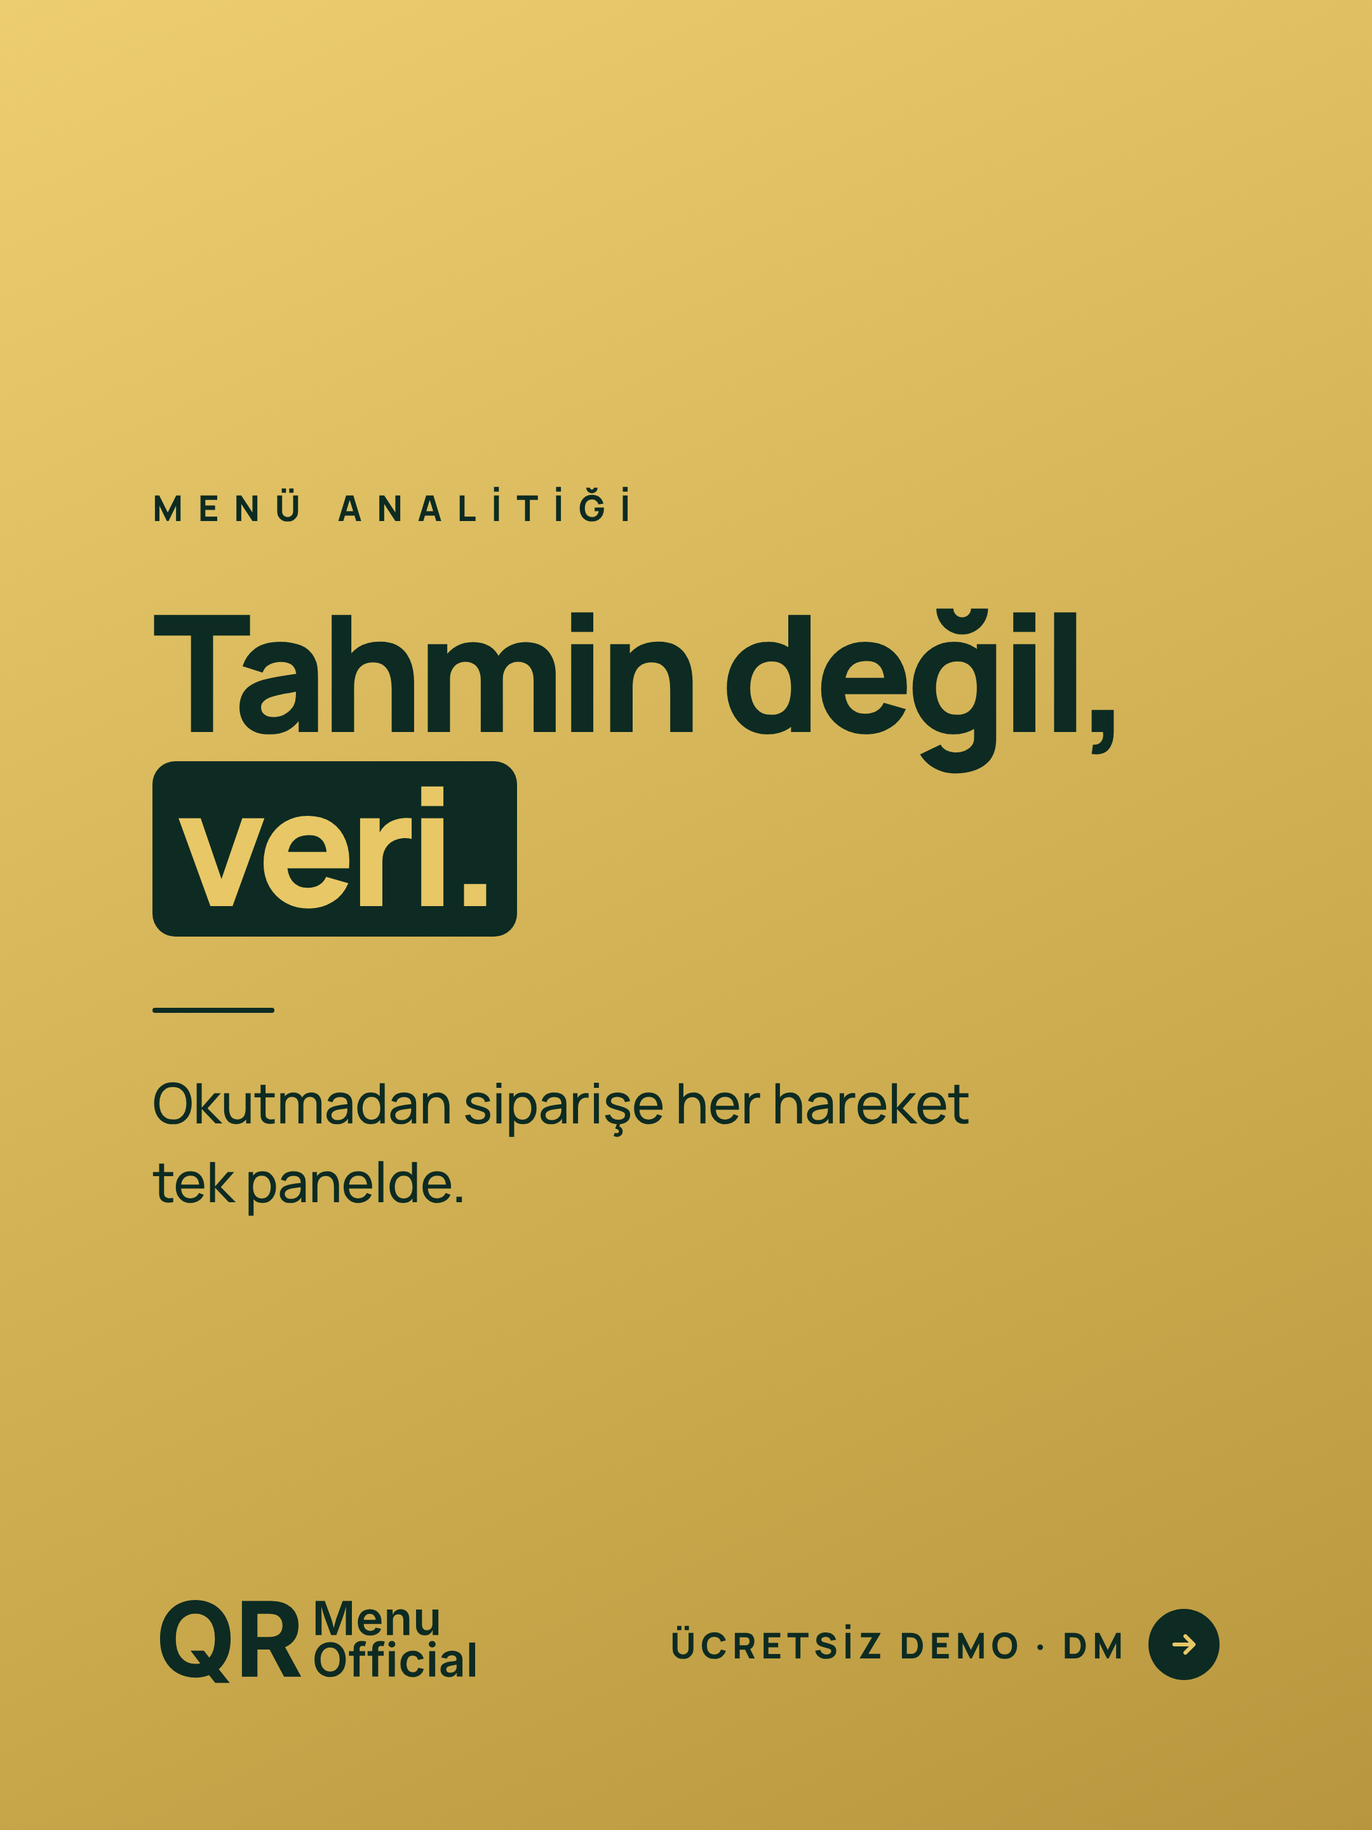
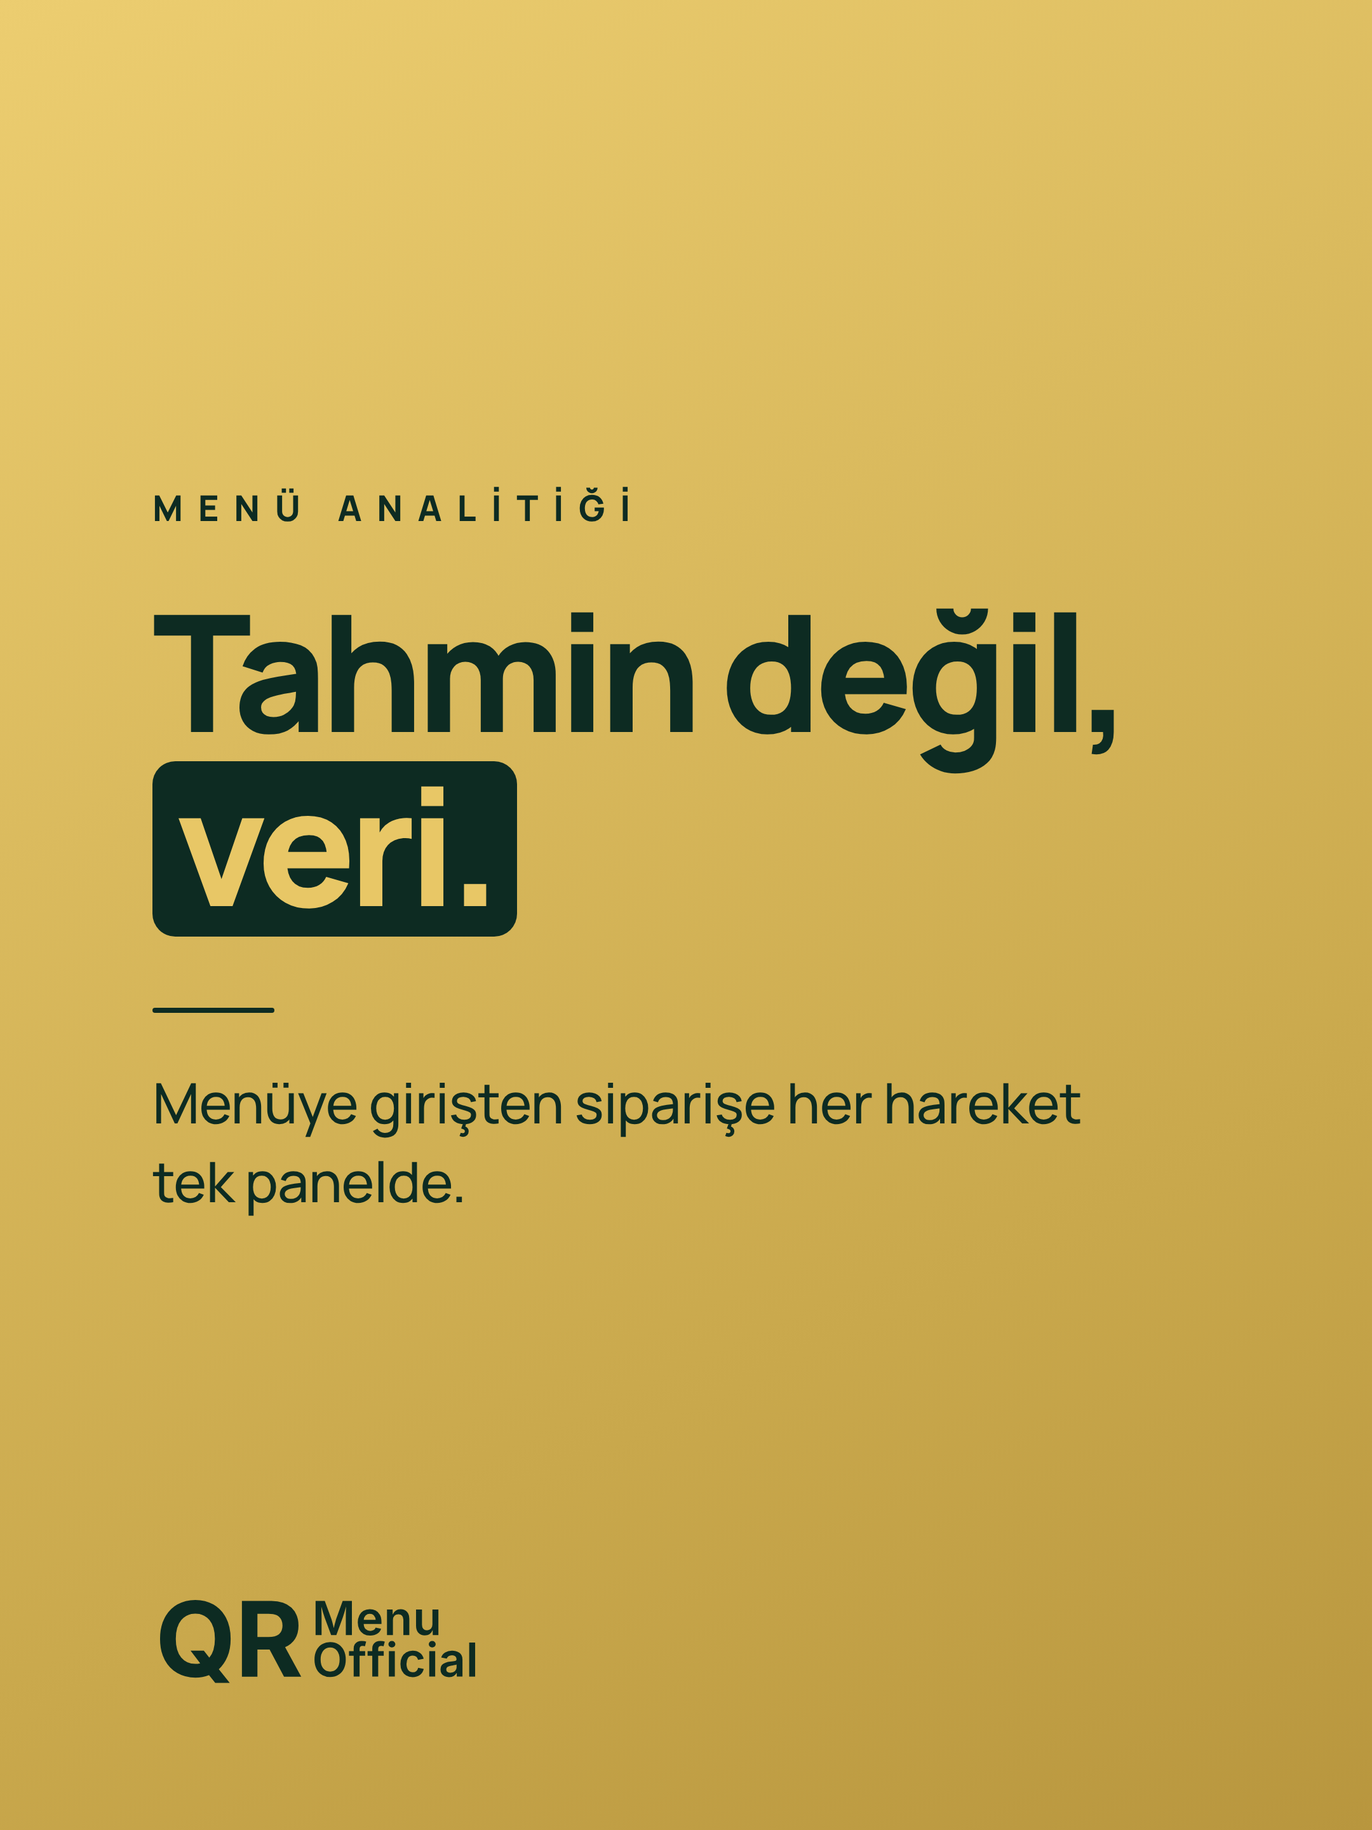
Menü Analitiği: 3. gönderi DM satırı kaldırıldı, metinler sadeleşti
Claude-Session: https://claude.ai/code/session_01FBw9rVwrniVjyFvtgVdFXq

diff --git a/tools/ig-sabit/ma-3.html b/tools/ig-sabit/ma-3.html
@@ -18,10 +18,10 @@
 /* altın */ .a{background:linear-gradient(155deg,#ECCD70 0%,#C9A84C 70%,#B8963E 100%);color:#0D2B22}
 .a .eb{color:#0D2B22}.a .rule{background:#0D2B22}.a .h b{background:#0D2B22;color:#E8C766}
 .k .cta i,.a .cta i{background:#0D2B22}.z .cta i{background:#C9A84C}
-</style></head><body><div class="s a"><div class="eb">MENÜ ANALİTİĞİ</div><div class="h">Tahmin değil,<br><b>veri.</b></div><div class="rule"></div><div class="p">Okutmadan siparişe her hareket<br>tek panelde.</div><div class="lg"><svg xmlns="http://www.w3.org/2000/svg" viewBox="0 0 4363.25 1296.64" fill="none" role="img" aria-labelledby="logo-title">
+</style></head><body><div class="s a"><div class="eb">MENÜ ANALİTİĞİ</div><div class="h">Tahmin değil,<br><b>veri.</b></div><div class="rule"></div><div class="p">Menüye girişten siparişe her hareket<br>tek panelde.</div><div class="lg"><svg xmlns="http://www.w3.org/2000/svg" viewBox="0 0 4363.25 1296.64" fill="none" role="img" aria-labelledby="logo-title">
 
 <g transform="translate(100.00 1113.42) scale(1 -1)">
 <path fill="#0D2B22" d="M466.4429530201342 -13.422818791946309Q334.2281879194631 -13.422818791946309 228.52348993288592 46.97986577181208Q122.81879194630875 107.38255033557047 61.409395973154375 222.14765100671144Q0.0 336.9127516778524 0.0 499.3288590604027Q0.0 662.4161073825504 61.409395973154375 777.5167785234901Q122.81879194630875 892.6174496644296 228.52348993288592 953.020134228188Q334.2281879194631 1013.4228187919464 466.4429530201342 1013.4228187919464Q599.3288590604028 1013.4228187919464 704.6979865771814 953.020134228188Q810.0671140939598 892.6174496644296 871.4765100671142 777.5167785234901Q932.8859060402685 662.4161073825504 932.8859060402685 499.3288590604027Q932.8859060402685 366.44295302013427 890.9395973154363 265.4362416107383Q848.9932885906042 164.4295302013423 776.510067114094 98.65771812080537L920.8053691275169 -83.22147651006712H729.530201342282L646.9798657718121 19.46308724832215Q563.758389261745 -13.422818791946309 466.4429530201342 -13.422818791946309ZM403.3557046979866 343.6241610738255H578.5234899328859L651.0067114093961 250.33557046979868Q686.5771812080537 291.94630872483225 705.7046979865772 354.69798657718127Q724.8322147651007 417.44966442953023 724.8322147651007 499.3288590604027Q724.8322147651007 661.0738255033557 654.026845637584 746.3087248322147Q583.2214765100672 831.5436241610738 466.4429530201342 831.5436241610738Q350.33557046979865 831.5436241610738 279.19463087248323 745.9731543624162Q208.05369127516778 660.4026845637584 208.05369127516778 499.3288590604027Q208.05369127516778 338.9261744966443 279.19463087248323 253.69127516778525Q350.33557046979865 168.4563758389262 466.4429530201342 168.4563758389262Q500.67114093959736 168.4563758389262 530.8724832214766 175.83892617449666Z"/><path fill="#0D2B22" d="M1081.8791946308727 0.0V1000.0H1471.8120805369128Q1642.281879194631 1000.0 1735.9060402684565 911.0738255033557Q1829.530201342282 822.1476510067115 1829.530201342282 674.4966442953021Q1829.530201342282 571.8120805369127 1783.8926174496646 498.99328859060404Q1738.2550335570472 426.17449664429535 1652.3489932885907 389.93288590604027L1865.1006711409398 0.0H1638.2550335570472L1447.6510067114095 357.04697986577185H1286.5771812080538V0.0ZM1286.5771812080538 522.8187919463087H1434.2281879194632Q1618.1208053691275 522.8187919463087 1618.1208053691275 674.4966442953021Q1618.1208053691275 750.3355704697987 1572.818791946309 790.6040268456376Q1527.51677852349 830.8724832214765 1433.5570469798658 830.8724832214765H1286.5771812080538Z"/><path fill="#0D2B22" d="M2055.10067114094 549.5V999.5H2176.5100671140945L2261.9798657718125 767.251677852349Q2266.5100671140945 753.9630872483222 2272.399328859061 732.6711409395973Q2278.2885906040274 711.3791946308725 2284.3288590604034 687.0671140939597Q2290.369127516779 662.755033557047 2295.503355704698 640.4060402684564Q2300.637583892618 662.4530201342282 2306.677852348994 686.765100671141Q2312.7181208053694 711.0771812080537 2318.607382550336 732.3691275167785Q2324.4966442953023 753.6610738255033 2328.7248322147652 767.251677852349L2413.2885906040274 999.5H2535.0000000000005V549.5H2454.6644295302017V776.6140939597316Q2454.6644295302017 793.5268456375838 2455.11744966443 818.4429530201342Q2455.570469798658 843.3590604026846 2456.325503355705 871.4463087248323Q2457.080536912752 899.5335570469799 2457.382550335571 926.4127516778524Q2449.832214765101 897.4194630872483 2441.3758389261748 868.7281879194632Q2432.919463087249 840.0369127516778 2425.369127516779 815.8758389261745Q2417.818791946309 791.7147651006711 2412.382550335571 776.6140939597316L2329.328859060403 549.5H2260.771812080537L2176.5100671140945 776.6140939597316Q2171.073825503356 791.1107382550335 2163.6744966442957 814.6677852348994Q2156.275167785235 838.2248322147651 2147.9697986577185 866.6140939597315Q2139.6644295302017 895.0033557046979 2131.2080536912754 923.9966442953021Q2131.812080536913 898.6275167785235 2132.5671140939603 870.993288590604Q2133.322147651007 843.3590604026846 2133.775167785235 818.5939597315437Q2134.2281879194634 793.8288590604027 2134.2281879194634 776.6140939597316V549.5Z"/><path fill="#0D2B22" d="M2776.610738255034 542.5536912751678Q2725.570469798658 542.5536912751678 2688.8758389261748 563.9966442953021Q2652.1812080536915 585.4395973154362 2632.399328859061 624.3993288590605Q2612.61744966443 663.3590604026846 2612.61744966443 716.2114093959732Q2612.61744966443 768.1577181208054 2632.097315436242 807.5704697986578Q2651.577181208054 846.9832214765102 2687.3657718120808 869.1812080536913Q2723.1543624161077 891.3791946308725 2771.4765100671143 891.3791946308725Q2812.55033557047 891.3791946308725 2847.7348993288597 873.4093959731543Q2882.919463087249 855.4395973154362 2904.362416107383 817.8389261744967Q2925.805369127517 780.238255033557 2925.805369127517 721.0436241610738V696.2785234899329H2690.838926174497Q2692.348993288591 651.2785234899329 2716.057046979866 627.7214765100671Q2739.765100671141 604.1644295302013 2777.5167785234903 604.1644295302013Q2803.4899328859065 604.1644295302013 2822.063758389262 615.3389261744967Q2840.637583892618 626.5134228187919 2848.4899328859065 647.9563758389262L2920.6711409395975 633.1577181208054Q2908.590604026846 592.3859060402684 2870.6879194630874 567.4697986577181Q2832.785234899329 542.5536912751678 2776.610738255034 542.5536912751678ZM2691.140939597316 749.734899328859H2849.3959731543628Q2845.771812080537 785.9765100671141 2826.291946308725 807.8724832214765Q2806.812080536913 829.7684563758389 2771.7785234899334 829.7684563758389Q2735.838926174497 829.7684563758389 2714.848993288591 806.6644295302013Q2693.859060402685 783.5604026845638 2691.140939597316 749.734899328859Z"/><path fill="#0D2B22" d="M3077.1140939597317 747.3187919463087V549.5H2998.590604026846V887.1510067114094H3072.8859060402688L3073.791946308725 819.8020134228188Q3103.993288590604 891.3791946308725 3178.288590604027 891.3791946308725Q3230.5369127516783 891.3791946308725 3262.097315436242 858.1577181208054Q3293.657718120806 824.9362416107383 3293.657718120806 764.2315436241611V549.5H3215.1342281879197V752.1510067114094Q3215.1342281879197 785.9765100671141 3197.61744966443 805.3053691275168Q3180.10067114094 824.6342281879195 3149.295302013423 824.6342281879195Q3117.8859060402688 824.6342281879195 3097.5 804.3993288590605Q3077.1140939597317 784.1644295302013 3077.1140939597317 747.3187919463087Z"/><path fill="#0D2B22" d="M3498.120805369128 545.271812080537Q3445.872483221477 545.271812080537 3414.161073825504 578.493288590604Q3382.449664429531 611.7147651006711 3382.449664429531 672.4194630872483V887.1510067114094H3460.9731543624166V684.5Q3460.9731543624166 650.6744966442953 3478.640939597316 631.3456375838927Q3496.3087248322154 612.01677852349 3527.114093959732 612.01677852349Q3558.5234899328866 612.01677852349 3578.758389261746 632.2516778523491Q3598.9932885906046 652.4865771812081 3598.9932885906046 689.3322147651006V887.1510067114094H3677.8187919463094V549.5H3603.221476510068L3602.6174496644303 617.1510067114094Q3572.4161073825508 545.271812080537 3498.120805369128 545.271812080537Z"/><path fill="#0D2B22" d="M2247.5798657718124 -5.5402684563758395Q2188.385234899329 -5.5402684563758395 2141.7241610738256 21.942953020134226Q2095.0630872483225 49.42617449664429 2067.8818791946314 101.07046979865771Q2040.70067114094 152.71476510067114 2040.70067114094 225.1979865771812Q2040.70067114094 297.9832214765101 2067.8818791946314 349.7785234899329Q2095.0630872483225 401.5738255033557 2141.7241610738256 429.05704697986573Q2188.385234899329 456.5402684563758 2247.5798657718124 456.5402684563758Q2306.472483221477 456.5402684563758 2353.13355704698 429.05704697986573Q2399.7946308724836 401.5738255033557 2426.8248322147656 349.7785234899329Q2453.855033557047 297.9832214765101 2453.855033557047 225.1979865771812Q2453.855033557047 152.41275167785236 2426.8248322147656 100.91946308724832Q2399.7946308724836 49.42617449664429 2353.13355704698 21.942953020134226Q2306.472483221477 -5.5402684563758395 2247.5798657718124 -5.5402684563758395ZM2247.5798657718124 66.64093959731544Q2302.5463087248327 66.64093959731544 2337.5798657718124 107.41275167785236Q2372.613422818792 148.18456375838926 2372.613422818792 225.1979865771812Q2372.613422818792 302.513422818792 2337.5798657718124 343.4362416107383Q2302.5463087248327 384.3590604026846 2247.5798657718124 384.3590604026846Q2192.3114093959734 384.3590604026846 2156.9758389261747 343.4362416107383Q2121.640268456376 302.513422818792 2121.640268456376 225.1979865771812Q2121.640268456376 148.48657718120805 2156.9758389261747 107.56375838926175Q2192.3114093959734 66.64093959731544 2247.5798657718124 66.64093959731544Z"/><path fill="#0D2B22" d="M2709.6604026845644 338.1510067114094V276.5402684563758H2636.5731543624165V0.5H2558.3516778523494V276.5402684563758H2496.4389261744973V338.1510067114094H2558.3516778523494V370.46644295302013Q2558.3516778523494 403.98993288590606 2572.5463087248327 426.48993288590606Q2586.740939597316 448.98993288590606 2610.448993288591 460.31543624161077Q2634.157046979866 471.6409395973154 2663.1503355704704 471.6409395973154Q2683.989261744967 471.6409395973154 2699.995973154363 468.3187919463087Q2716.002684563759 464.996644295302 2723.5530201342285 462.2785234899329L2707.5463087248327 401.2718120805369Q2702.4120805369134 402.7818791946309 2695.012751677853 404.44295302013427Q2687.6134228187925 406.1040268456376 2677.646979865772 406.1040268456376Q2655.6000000000004 406.1040268456376 2646.0865771812087 395.2315436241611Q2636.5731543624165 384.3590604026846 2636.5731543624165 364.4261744966443V338.1510067114094Z"/><path fill="#0D2B22" d="M2955.499328859061 338.1510067114094V276.5402684563758H2882.412080536913V0.5H2804.190604026846V276.5402684563758H2742.2778523489937V338.1510067114094H2804.190604026846V370.46644295302013Q2804.190604026846 403.98993288590606 2818.385234899329 426.48993288590606Q2832.5798657718124 448.98993288590606 2856.2879194630877 460.31543624161077Q2879.9959731543627 471.6409395973154 2908.989261744967 471.6409395973154Q2929.8281879194633 471.6409395973154 2945.834899328859 468.3187919463087Q2961.8416107382554 464.996644295302 2969.391946308725 462.2785234899329L2953.385234899329 401.2718120805369Q2948.25100671141 402.7818791946309 2940.8516778523494 404.44295302013427Q2933.452348993289 406.1040268456376 2923.4859060402687 406.1040268456376Q2901.438926174497 406.1040268456376 2891.9255033557047 395.2315436241611Q2882.412080536913 384.3590604026846 2882.412080536913 364.4261744966443V338.1510067114094Z"/><path fill="#0D2B22" d="M3023.7543624161076 0.5V338.1510067114094H3102.2778523489933V0.5ZM3063.01610738255 385.8691275167785Q3044.2912751677854 385.8691275167785 3030.851677852349 398.4026845637584Q3017.412080536913 410.93624161073825 3017.412080536913 429.0570469798658Q3017.412080536913 446.8758389261745 3030.851677852349 459.40939597315435Q3044.2912751677854 471.94295302013427 3063.01610738255 471.94295302013427Q3082.042953020134 471.94295302013427 3095.4825503355705 459.40939597315435Q3108.9221476510065 446.8758389261745 3108.9221476510065 429.0570469798658Q3108.9221476510065 410.93624161073825 3095.4825503355705 398.4026845637584Q3082.042953020134 385.8691275167785 3063.01610738255 385.8691275167785Z"/><path fill="#0D2B22" d="M3337.546308724832 -6.446308724832215Q3288.3181208053693 -6.446308724832215 3252.076510067114 15.449664429530202Q3215.834899328859 37.34563758389262 3196.053020134228 76.45637583892618Q3176.2711409395974 115.56711409395973 3176.2711409395974 167.51342281879195Q3176.2711409395974 220.06375838926175 3196.053020134228 259.4765100671141Q3215.834899328859 298.88926174496646 3252.076510067114 320.63422818791946Q3288.3181208053693 342.3791946308725 3337.546308724832 342.3791946308725Q3394.0228187919465 342.3791946308725 3433.13355704698 314.1409395973154Q3472.2442953020136 285.9026845637584 3483.11677852349 236.37248322147653L3409.7275167785237 220.96979865771812Q3403.385234899329 247.24496644295303 3384.9624161073825 262.94966442953023Q3366.5395973154364 278.6543624161074 3338.15033557047 278.6543624161074Q3297.076510067114 278.6543624161074 3276.690604026846 246.94295302013424Q3256.304697986577 215.23154362416108 3256.304697986577 167.81543624161074Q3256.304697986577 136.70805369127518 3265.3651006711407 111.64093959731545Q3274.4255033557047 86.5738255033557 3292.546308724832 71.9261744966443Q3310.6671140939598 57.27852348993289 3338.15033557047 57.27852348993289Q3367.143624161074 57.27852348993289 3385.7174496644298 73.73825503355705Q3404.2912751677854 90.19798657718121 3410.63355704698 117.37919463087249L3484.0228187919465 101.97651006711409Q3473.15033557047 51.54026845637584 3433.888590604027 22.546979865771814Q3394.626845637584 -6.446308724832215 3337.546308724832 -6.446308724832215Z"/><path fill="#0D2B22" d="M3556.8080536912753 0.5V338.1510067114094H3635.331543624161V0.5ZM3596.069798657718 385.8691275167785Q3577.344966442953 385.8691275167785 3563.9053691275167 398.4026845637584Q3550.4657718120807 410.93624161073825 3550.4657718120807 429.0570469798658Q3550.4657718120807 446.8758389261745 3563.9053691275167 459.40939597315435Q3577.344966442953 471.94295302013427 3596.069798657718 471.94295302013427Q3615.0966442953018 471.94295302013427 3628.536241610738 459.40939597315435Q3641.975838926174 446.8758389261745 3641.975838926174 429.0570469798658Q3641.975838926174 410.93624161073825 3628.536241610738 398.4026845637584Q3615.0966442953018 385.8691275167785 3596.069798657718 385.8691275167785Z"/><path fill="#0D2B22" d="M3818.351677852349 -6.446308724832215Q3786.3382550335573 -6.446308724832215 3760.6671140939598 5.181208053691275Q3734.9959731543627 16.808724832214764 3720.1973154362418 39.45973154362416Q3705.398657718121 62.11073825503356 3705.398657718121 95.33221476510067Q3705.398657718121 133.38590604026845 3723.9724832214765 154.37583892617448Q3742.546308724832 175.36577181208054 3771.9926174496645 184.8791946308725Q3801.438926174497 194.39261744966444 3834.056375838926 197.71476510067114Q3878.15033557047 202.54697986577182 3897.7812080536914 206.62416107382552Q3917.412080536913 210.7013422818792 3917.412080536913 228.21812080536913V229.7281879194631Q3917.412080536913 254.49328859060404 3902.311409395973 268.23489932885906Q3887.2107382550334 281.9765100671141 3858.5194630872484 281.9765100671141Q3828.922147651007 281.9765100671141 3811.4053691275167 268.989932885906Q3793.888590604027 256.003355704698 3787.8483221476513 239.39261744966444L3715.063087248322 254.19127516778525Q3729.861744966443 298.88926174496646 3768.670469798658 320.63422818791946Q3807.4791946308724 342.3791946308725 3858.2174496644298 342.3791946308725Q3882.076510067114 342.3791946308725 3906.388590604027 336.79194630872485Q3930.7006711409394 331.2046979865772 3950.9355704697987 318.06711409395973Q3971.170469798658 304.9295302013423 3983.553020134228 282.4295302013423Q3995.9355704697987 259.9295302013423 3995.9355704697987 226.10402684563758V0.5H3920.7342281879196V47.010067114093964H3917.7140939597316Q3906.5395973154364 25.26510067114094 3882.076510067114 9.409395973154362Q3857.613422818792 -6.446308724832215 3818.351677852349 -6.446308724832215ZM3838.586577181208 51.84228187919463Q3874.8281879194633 51.84228187919463 3896.4221476510065 72.68120805369128Q3918.01610738255 93.52013422818793 3918.01610738255 121.60738255033557V161.47315436241612Q3912.5798657718124 157.24496644295303 3898.6872483221478 154.0738255033557Q3884.794630872483 150.90268456375838 3869.2409395973154 148.63758389261744Q3853.6872483221478 146.3724832214765 3843.418791946309 144.86241610738256Q3816.841610738255 141.23825503355704 3799.1738255033556 130.36577181208054Q3781.506040268456 119.49328859060402 3781.506040268456 96.23825503355705Q3781.506040268456 74.49328859060402 3797.512751677852 63.16778523489933Q3813.5194630872484 51.84228187919463 3838.586577181208 51.84228187919463Z"/><path fill="#0D2B22" d="M4163.25100671141 450.5V0.5H4084.727516778524V450.5Z"/>
 </g>
 </svg>
-</div><div class="cta">ÜCRETSİZ DEMO · DM<i><svg width="26" height="26" viewBox="0 0 24 24" fill="none" stroke="#E8C766" stroke-width="2.8" stroke-linecap="round" stroke-linejoin="round"><path d="M5 12h14M13 6l6 6-6 6"/></svg></i></div></div><script>document.fonts.ready.then(()=>document.body.dataset.ready=1)</script></body></html>
+</div></div><script>document.fonts.ready.then(()=>document.body.dataset.ready=1)</script></body></html>

diff --git a/analiz/menu-analitigi/caption-menu-analitigi.md b/analiz/menu-analitigi/caption-menu-analitigi.md
@@ -6,7 +6,7 @@ Müşteriniz menünüzde ne arıyor, ne bulamıyor? 🔍
 Menüyü açan müşteri bir ürün arıyor, bulamıyor ve kapatıyor. Müşterinizin ne aradığını ve bulamadığını çoğu zaman fark etmiyorsunuz.
 
 Menü Analitiği'nde:
-• Menüde olmayan bir ürün aratıldığında panelinize düşer.
+• Menüde olmayan bir ürün arandığında panelde kaydedilir.
 • En çok ve en az tıklanan ürünleri görürsünüz.
 • Hangi masadan kaç kez menü okutulduğunu, hiç okutulmayan masalarla birlikte takip edersiniz.
 
@@ -23,7 +23,7 @@ Bu 3 sorudan birine “evet” diyorsanız, kararlarınız eksik veriye dayanıy
 3. Sepette kalan siparişleri fark etmiyor musunuz?
 
 Panelde neler var?
-• Menü okutma ve tekil ziyaretçi sayısı; saatlik, günlük, aylık grafik.
+• Menüyü açan müşteri sayısı; saatlikten aylığa grafikler.
 • En çok ve en az tıklanan ürünler, kategori dağılımı.
 • Masa bazında hareket; hiç okutulmayan masalar dahil.
 • Sepete eklenen, gönderilen ve yarım kalan siparişler.
@@ -37,8 +37,6 @@ Tahmin değil, veri.
 ## 3. gönderi (altın)
 Tahmin değil, veri.
 
-Okutmadan siparişe, menünüzdeki her hareket tek panelde. Neyin ilgi gördüğünü, neyin arandığını, hangi siparişin yarım kaldığını görün.
-
-Ücretsiz demo için DM'den yazın.
+Menüye girişten siparişe, her hareket tek panelde. Neyin ilgi gördüğünü, neyin arandığını, hangi siparişin yarım kaldığını görün.
 
 #qrmenü #dijitalmenü #restoran #qrmenuofficial
